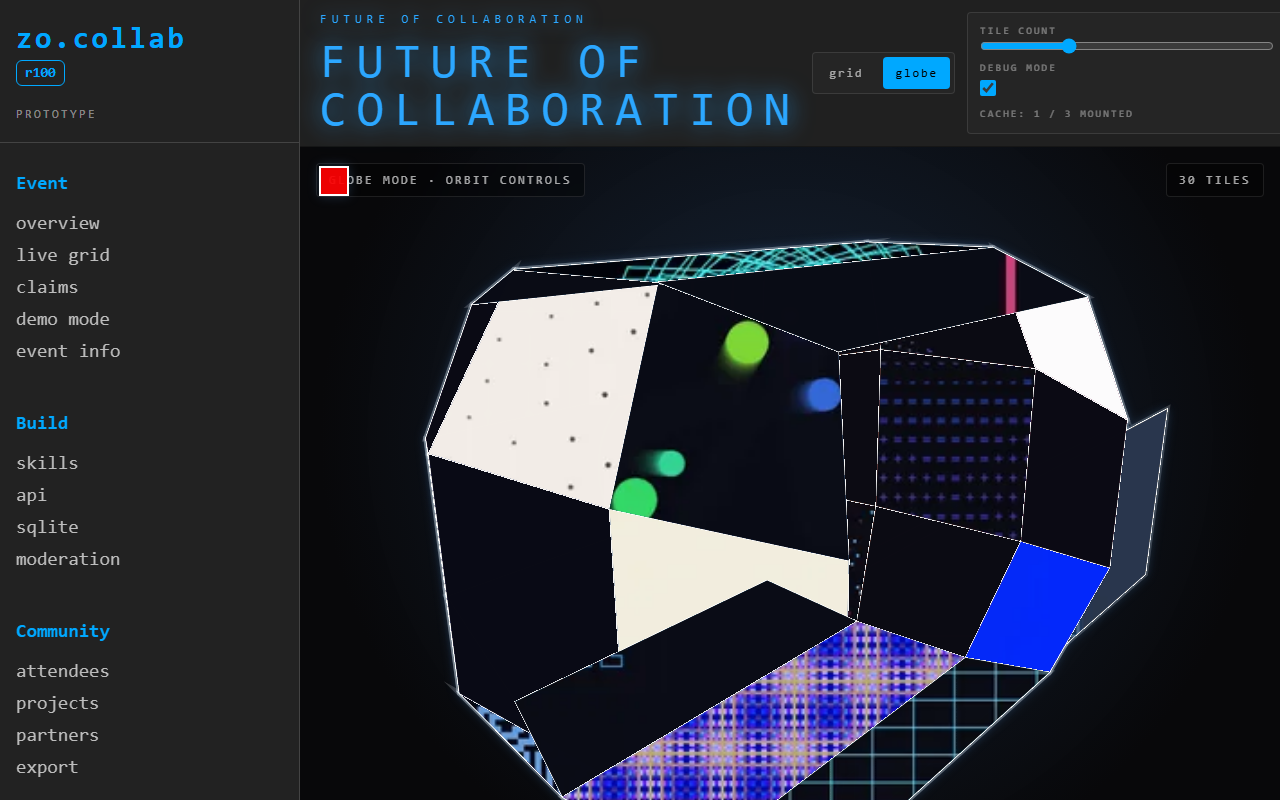
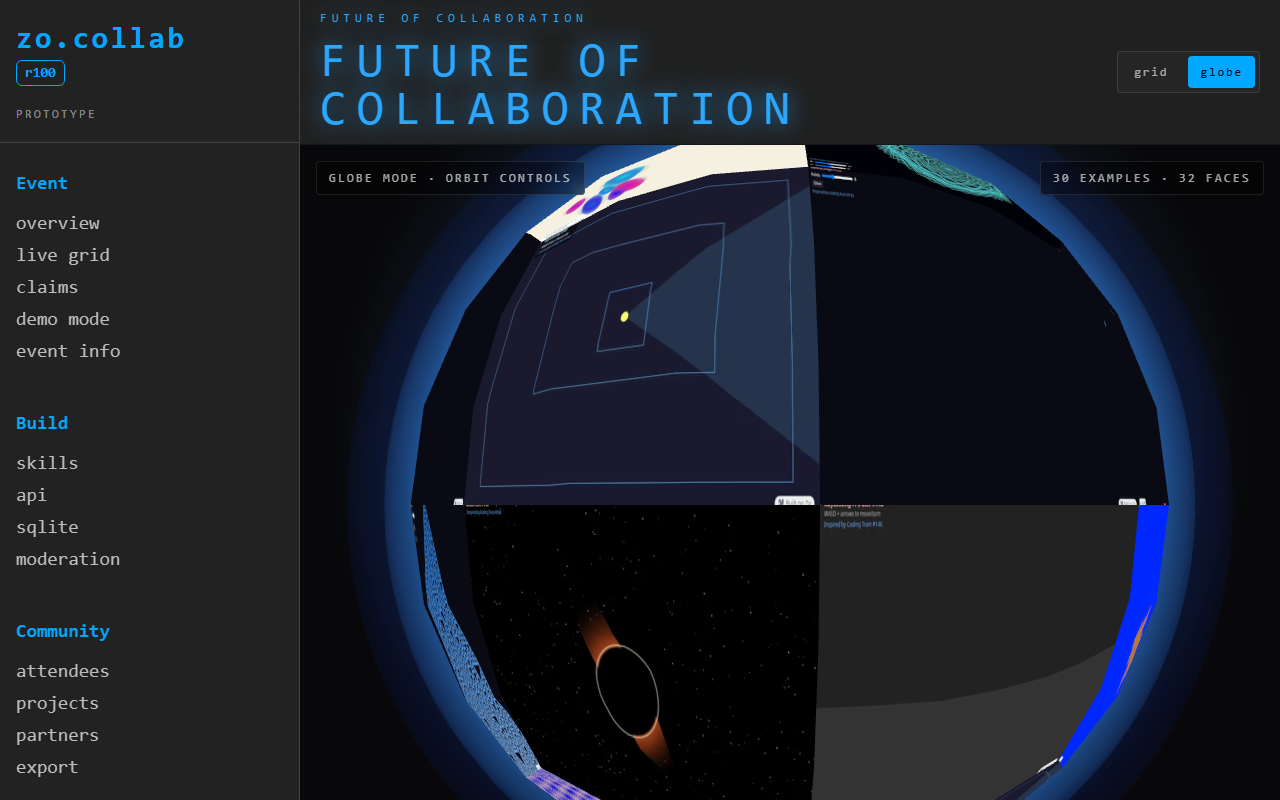
Complete globe iteration roadmap: docs, polish, and UV hardening.
Sync the walkthrough and screenshot, add passive globe copy, soften seams, tune pulsing atmosphere, bump quad curvature, apply per-face UV flips, and drop unused scene lights.

diff --git a/future-of-collaboration.zopack.md b/future-of-collaboration.zopack.md
@@ -235,8 +235,16 @@ function generateSpherifiedCuboidQuads(
   ny: number,
   nz: number,
   radius: number
-): Array<Array<{ x: number; y: number; z: number }>> {
-  const quads: Array<Array<{ x: number; y: number; z: number }>> = [];
+): Array<{
+  points: Array<{ x: number; y: number; z: number }>;
+  flipU?: boolean;
+  flipV?: boolean;
+}> {
+  const quads: Array<{
+    points: Array<{ x: number; y: number; z: number }>;
+    flipU?: boolean;
+    flipV?: boolean;
+  }> = [];
 
   const spherify = (x: number, y: number, z: number) => {
     const len = Math.hypot(x, y, z) || 1;
@@ -247,6 +255,13 @@ function generateSpherifiedCuboidQuads(
     };
   };
 
+  const pushQuad = (
+    points: Array<{ x: number; y: number; z: number }>,
+    uv: { flipU?: boolean; flipV?: boolean } = {},
+  ) => {
+    quads.push({ points, ...uv });
+  };
+
   // 1. Front Face (Z = 1)
   for (let i = 0; i < nx; i++) {
     for (let j = 0; j < ny; j++) {
@@ -254,7 +269,7 @@ function generateSpherifiedCuboidQuads(
       const x1 = -1 + (2 * (i + 1)) / nx;
       const y0 = -1 + (2 * j) / ny;
       const y1 = -1 + (2 * (j + 1)) / ny;
-      quads.push([
+      pushQuad([
         spherify(x0, y0, 1),
         spherify(x1, y0, 1),
         spherify(x1, y1, 1),
@@ -270,12 +285,15 @@ function generateSpherifiedCuboidQuads(
       const x1 = -1 + (2 * (i + 1)) / nx;
       const y0 = -1 + (2 * j) / ny;
       const y1 = -1 + (2 * (j + 1)) / ny;
-      quads.push([
-        spherify(x1, y0, -1),
-        spherify(x0, y0, -1),
-        spherify(x0, y1, -1),
-        spherify(x1, y1, -1),
-      ]);
+      pushQuad(
+        [
+          spherify(x1, y0, -1),
+          spherify(x0, y0, -1),
+          spherify(x0, y1, -1),
+          spherify(x1, y1, -1),
+        ],
+        { flipU: true },
+      );
     }
   }
 
@@ -286,12 +304,15 @@ function generateSpherifiedCuboidQuads(
       const z1 = -1 + (2 * (k + 1)) / nz;
       const y0 = -1 + (2 * j) / ny;
       const y1 = -1 + (2 * (j + 1)) / ny;
-      quads.push([
-        spherify(1, y0, z1),
-        spherify(1, y0, z0),
-        spherify(1, y1, z0),
-        spherify(1, y1, z1),
-      ]);
+      pushQuad(
+        [
+          spherify(1, y0, z1),
+          spherify(1, y0, z0),
+          spherify(1, y1, z0),
+          spherify(1, y1, z1),
+        ],
+        { flipU: true },
+      );
     }
   }
 
@@ -302,7 +323,7 @@ function generateSpherifiedCuboidQuads(
       const z1 = -1 + (2 * (k + 1)) / nz;
       const y0 = -1 + (2 * j) / ny;
       const y1 = -1 + (2 * (j + 1)) / ny;
-      quads.push([
+      pushQuad([
         spherify(-1, y0, z0),
         spherify(-1, y0, z1),
         spherify(-1, y1, z1),
@@ -318,12 +339,15 @@ function generateSpherifiedCuboidQuads(
       const x1 = -1 + (2 * (i + 1)) / nx;
       const z0 = -1 + (2 * k) / nz;
       const z1 = -1 + (2 * (k + 1)) / nz;
-      quads.push([
-        spherify(x0, 1, z1),
-        spherify(x1, 1, z1),
-        spherify(x1, 1, z0),
-        spherify(x0, 1, z0),
-      ]);
+      pushQuad(
+        [
+          spherify(x0, 1, z1),
+          spherify(x1, 1, z1),
+          spherify(x1, 1, z0),
+          spherify(x0, 1, z0),
+        ],
+        { flipV: true },
+      );
     }
   }
 
@@ -334,12 +358,15 @@ function generateSpherifiedCuboidQuads(
       const x1 = -1 + (2 * (i + 1)) / nx;
       const z0 = -1 + (2 * k) / nz;
       const z1 = -1 + (2 * (k + 1)) / nz;
-      quads.push([
-        spherify(x1, -1, z1),
-        spherify(x0, -1, z1),
-        spherify(x0, -1, z0),
-        spherify(x1, -1, z0),
-      ]);
+      pushQuad(
+        [
+          spherify(x1, -1, z1),
+          spherify(x0, -1, z1),
+          spherify(x0, -1, z0),
+          spherify(x1, -1, z0),
+        ],
+        { flipU: true, flipV: true },
+      );
     }
   }
 
@@ -493,8 +520,10 @@ function GlobeStage({
       THREE: typeof import("https://esm.sh/three@0.167.1"),
       points: Array<{ x: number; y: number; z: number }>,
       radius: number,
-      segments = 2,
+      segments = 3,
+      uvFlip: { flipU?: boolean; flipV?: boolean } = {},
     ) => {
+      const { flipU = false, flipV = false } = uvFlip;
       const positions: number[] = [];
       const uvs: number[] = [];
       const indices: number[] = [];
@@ -508,7 +537,7 @@ function GlobeStage({
           const u = column / segments;
           const point = normalizePoint(mixPoint(left, right, u), radius);
           positions.push(point.x, point.y, point.z);
-          uvs.push(u, v);
+          uvs.push(flipU ? 1 - u : u, flipV ? 1 - v : v);
         }
       }
 
@@ -583,16 +612,8 @@ function GlobeStage({
       controls.autoRotateSpeed = 0.4;
       controls.target.set(0, 0, 0);
 
-      const ambient = new THREE.AmbientLight(0xffffff, 2.1);
-      scene.add(ambient);
-      const directional = new THREE.DirectionalLight(0x9fd8ff, 1.8);
-      directional.position.set(7, 12, 10);
-      scene.add(directional);
-      const backLight = new THREE.DirectionalLight(0x3366ff, 0.7);
-      backLight.position.set(-12, -8, -10);
-      scene.add(backLight);
-
       const sphereRadius = 12.0;
+      let outerGlowMaterial: { uniforms: { intensity: { value: number } } } | null = null;
 
       const addAtmosphereGlow = (
         scale: number,
@@ -634,10 +655,11 @@ function GlobeStage({
         const mesh = new THREE.Mesh(geometry, material);
         mesh.renderOrder = 1;
         scene.add(mesh);
+        return material;
       };
 
-      addAtmosphereGlow(1.06, 0x7ecfff, 2.8, 0.42);
-      addAtmosphereGlow(1.14, 0x2f6fd4, 1.5, 0.18);
+      addAtmosphereGlow(1.06, 0x7ecfff, 2.8, 0.38);
+      outerGlowMaterial = addAtmosphereGlow(1.14, 0x2f6fd4, 1.5, 0.16);
 
       const [nx, ny, nz] = findCuboidSubdivisions(tiles.length);
       const totalQuadsCount = 2 * (nx * ny + ny * nz + nz * nx);
@@ -657,13 +679,13 @@ function GlobeStage({
       const edgeMaterial = new THREE.LineBasicMaterial({
         color: 0xffffff,
         transparent: true,
-        opacity: 0.35,
+        opacity: 0.18,
       });
       materials.push(edgeMaterial);
 
-      quads.forEach((points, tileIndex) => {
+      quads.forEach(({ points, flipU, flipV }, tileIndex) => {
         const tile = paddedTiles[tileIndex];
-        const geometry = buildCurvedTileGeometry(THREE, points, sphereRadius, 2);
+        const geometry = buildCurvedTileGeometry(THREE, points, sphereRadius, 3, { flipU, flipV });
         geometries.push(geometry);
 
         const material = tile.thumbnailUrl
@@ -717,6 +739,10 @@ function GlobeStage({
 
       const tick = () => {
         if (cancelled) return;
+        if (outerGlowMaterial) {
+          const pulse = Math.sin(performance.now() * 0.001 * 1.1) * 0.04;
+          outerGlowMaterial.uniforms.intensity.value = 0.16 + pulse;
+        }
         controls.update();
         renderer.render(scene, camera);
         animationFrame = window.requestAnimationFrame(tick);
@@ -955,7 +981,11 @@ function FutureOfCollaborationContent() {
             </div>
             <div className="bg-[#222] p-5 font-mono text-sm leading-6 text-[#bdbdbd] sm:p-7">
               <div className="text-[#00a8ff]">rules</div>
-              <p className="mt-3">Hover a populated tile to preview its portal in the panel below. Click (or middle/⌘-click) to open the underlying Zo space in a new tab. Portals stay mounted for the {MAX_MOUNTED_PORTALS} most recently visited tiles, so returning to a tile is instant. Use the query param to compare different tile counts quickly.</p>
+              <p className="mt-3">
+                {viewMode === "globe"
+                  ? "Drag to orbit the collaboration globe. Auto-rotate keeps the artifact in motion. Switch to grid view to hover tiles, preview portals, and open Zo spaces."
+                  : `Hover a populated tile to preview its portal in the panel below. Click (or middle/⌘-click) to open the underlying Zo space in a new tab. Portals stay mounted for the ${MAX_MOUNTED_PORTALS} most recently visited tiles, so returning to a tile is instant. Use the query param to compare different tile counts quickly.`}
+              </p>
               <div className="mt-4 font-mono text-xs uppercase tracking-[0.16em] text-white/45">
                 cache: {lruIds.length} / {MAX_MOUNTED_PORTALS} mounted
               </div>

diff --git a/docs/globe-quad-sphere-walkthrough.md b/docs/globe-quad-sphere-walkthrough.md
@@ -24,6 +24,8 @@ globeTiles = tiles.slice(0, Math.min(gridSize, EXAMPLE_PROJECT_COUNT));
 
 The tile-count slider still controls the grid; the debug panel notes when globe is capped (`globe shows first 30 examples`).
 
+Globe mode is **passive**: orbit controls only — no tile hover, click, or raycasting.
+
 ## Algorithm
 
 ### `findCuboidSubdivisions(target)`
@@ -34,25 +36,34 @@ Searches integer cuboid subdivisions `(nx, ny, nz)` up to 20 per axis. Among cou
 
 picks the **smallest padding** first, then the least dimensional skew `(nx−ny)² + (ny−nz)² + (nz−nx)²`.
 
-For **30 globe tiles**: `(1, 3, 3)` → exactly **30** face quads — no padding required.
+Layouts with aspect ratio `max(nx,ny,nz) / min(nx,ny,nz) > 2` are rejected first so front/back faces do not collapse to a single quad column (which reads as axis-stretched on the sphere). If no layout passes the aspect filter, the search falls back without that constraint.
+
+For **30 globe tiles**: `(2, 2, 3)` → **32** face quads — **2** structural padding slots wrap existing example thumbnails.
 
 When padding is unavoidable (e.g. debug `tiles=10`), structural gap quads **wrap** an existing example thumbnail (`tiles[index % tiles.length]`) so cuboid topology never leaves pole faces blank.
 
 ### `generateSpherifiedCuboidQuads(nx, ny, nz, radius)`
 
-Subdivides each face of the `[-1,1]³` cuboid into quads, then normalizes each corner onto the sphere:
+Subdivides each face of the `[-1,1]³` cuboid into quads, then normalizes each corner onto the sphere. Each quad carries optional `flipU` / `flipV` flags so thumbnail orientation stays consistent across cuboid face windings.
 
 ```text
 (x, y, z) → (x, y, z) / ‖(x,y,z)‖ × radius
 ```
 
-### `GlobeStage` rendering
+### Rendering stack
 
-- WebGL-only (no 2D/SVG overlay stack)
-- Pads with wrapped example tiles when cuboid quad count exceeds input length (no blank pole faces)
-- Builds one `THREE.Mesh` per quad via `buildCurvedTileGeometry(..., segments = 2)` with bilinear sphere projection
-- `MeshStandardMaterial` with `flatShading: true`, `FrontSide`, and `EdgesGeometry` wire lines
-- Thumbnails via `TextureLoader` on mesh materials
+1. **WebGL-only** — no 2D/SVG overlay (avoids rotation desync)
+2. **Curved quads** — `buildCurvedTileGeometry(..., segments = 3)` with bilinear sphere projection
+3. **Seam lines** — `buildQuadBorderGeometry` per quad (soft white perimeter, not mesh triangle edges)
+4. **Atmosphere** — dual Fresnel `ShaderMaterial` shells via `addAtmosphereGlow` (inner rim + outer haze; outer shell has a slow intensity pulse)
+5. **Background** — CSS radial gradient matched to the cyan atmosphere palette
+
+### `GlobeStage` materials and textures
+
+- Thumbnail tiles: `MeshBasicMaterial` + `TextureLoader` (true color, no brighten filter)
+- Textures: sRGB color space, max anisotropy
+- UVs: `uvs.push(u, v)` with per-face `flipU` / `flipV` so artwork matches grid orientation
+- Non-thumbnail slots (debug only): `MeshStandardMaterial` with flat shading
 - Badge: `{exampleCount} examples · {faceCount} faces`
 
 ## Run locally
@@ -72,7 +83,7 @@ Optional debug controls:
 
 (`--handle` replaces `{{HANDLE}}` in example URLs. Without it, preview links show the literal placeholder.)
 
-## Verification (2026-06-06)
+## Verification (2026-06-05)
 
 Automated check: Playwright headless @ 1280×800, plus manual review of screenshot.
 
@@ -81,16 +92,18 @@ Automated check: Playwright headless @ 1280×800, plus manual review of screensh
 | Page loads (HTTP 200) | Pass |
 | Console errors | None |
 | WebGL canvas fills stage container | Pass |
-| Orbit drag | Pass |
-| Thumbnails on populated example tiles | Pass |
-| Default globe (`gridSize=100`) shows 30 examples, not 70 empty faces | Pass (after globe cap) |
-| 30 examples → `(1,3,3)` → 30 faces, no structural gaps | Pass |
+| Orbit drag + auto-rotate | Pass |
+| Thumbnails upright and true-color on example tiles | Pass |
+| Default globe (`gridSize=100`) shows 30 examples, not 70 empty faces | Pass |
+| 30 examples → `(2,2,3)` → **30 examples · 32 faces** | Pass |
+| Atmospheric rim glow visible at limb | Pass |
 | Debug red rect only when `debug=1` | Pass |
 
 Screenshot: [globe-quad-sphere-screenshot.png](./globe-quad-sphere-screenshot.png)
 
 ## Known limitations / follow-ups
 
-- **Exact-fit subdiv `(1,3,3)` at 30 examples** trades slightly wider front/back quads for full sphere coverage (no blank poles)
+- **Globe is capped at 30 examples** until more packs and thumbnails exist in `examples/`
+- **Passive globe** — use grid view for hover preview and click-through to Zo spaces
 - **Local serve without `--handle`** leaves `{{HANDLE}}` in example URLs
-- **Higher tile counts in globe** require more example packs and thumbnails before the cap can rise
+- **2 wrap-filled faces** at 30 examples duplicate two thumbnails structurally (badge still reports example count separately)

diff --git a/README.md b/README.md
@@ -7,6 +7,7 @@ Planning and design-doc repo for the Zo event experience: a standalone app where
 - `docs/design-doc.md` - current product, design, engineering, event-ops, and open-question plan.
 - `docs/example-deployment-manifest.md` - record of the batch Zo Space deployment for the example packs.
 - `docs/thumbnail-workflow.md` - screenshot-to-WebP pipeline for testing thumbnail-first portal rendering.
+- `docs/globe-quad-sphere-walkthrough.md` - quad-sphere globe algorithm, rendering stack, and verification notes for globe mode.
 - `examples/` - visual [Coding Train](https://thecodingtrain.com/challenges)-inspired [zopack](https://www.zo.computer/skills/zopack) starters for attendee Zo spaces (see `examples/README.md`).
 - `examples/thumbnails/` - generated WebP thumbnails and manifest for the deployed example spaces.
 - `examples-index.zopack.md` - public index route for the deployed example gallery at `https://etok.zo.space/examples`.